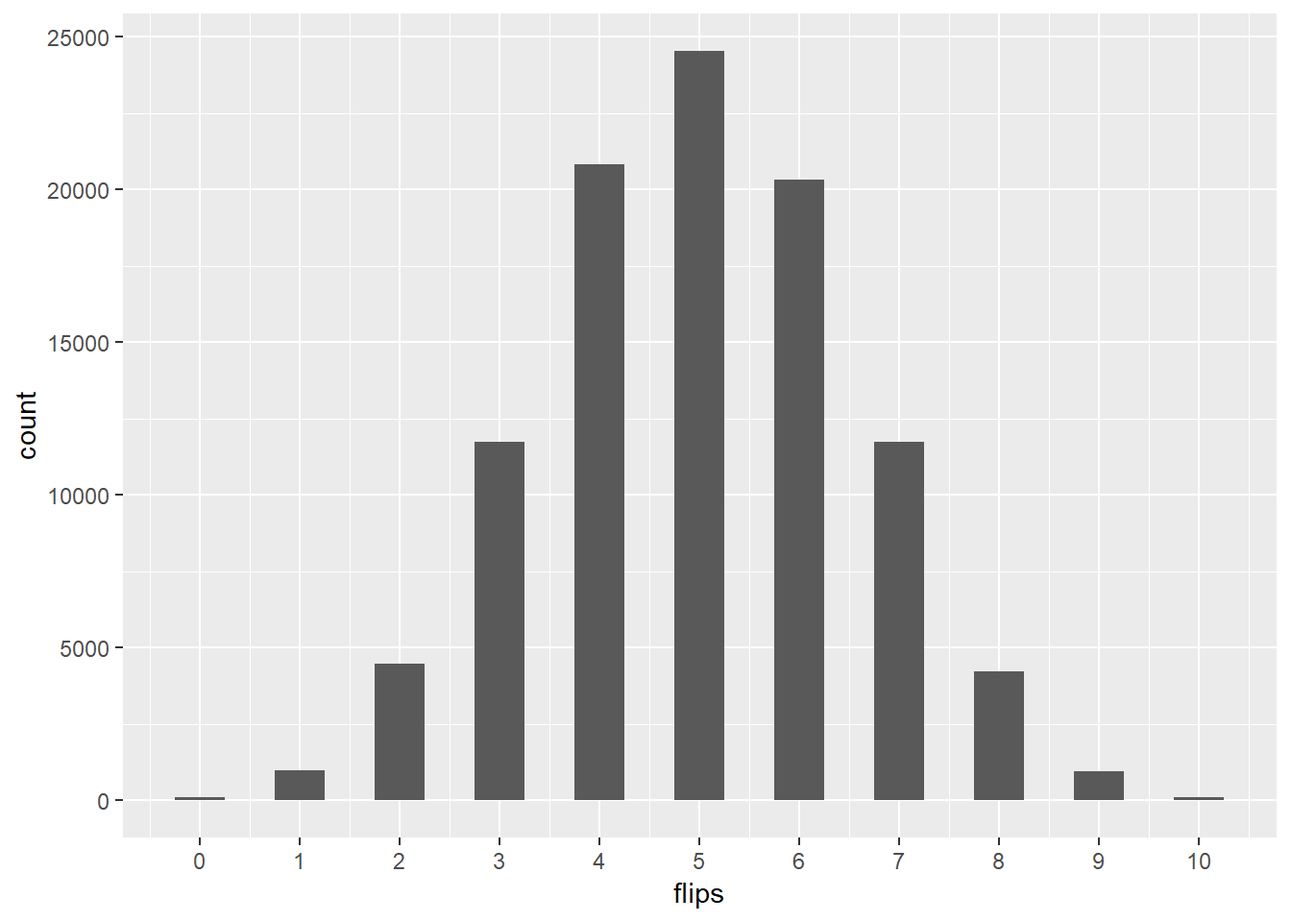
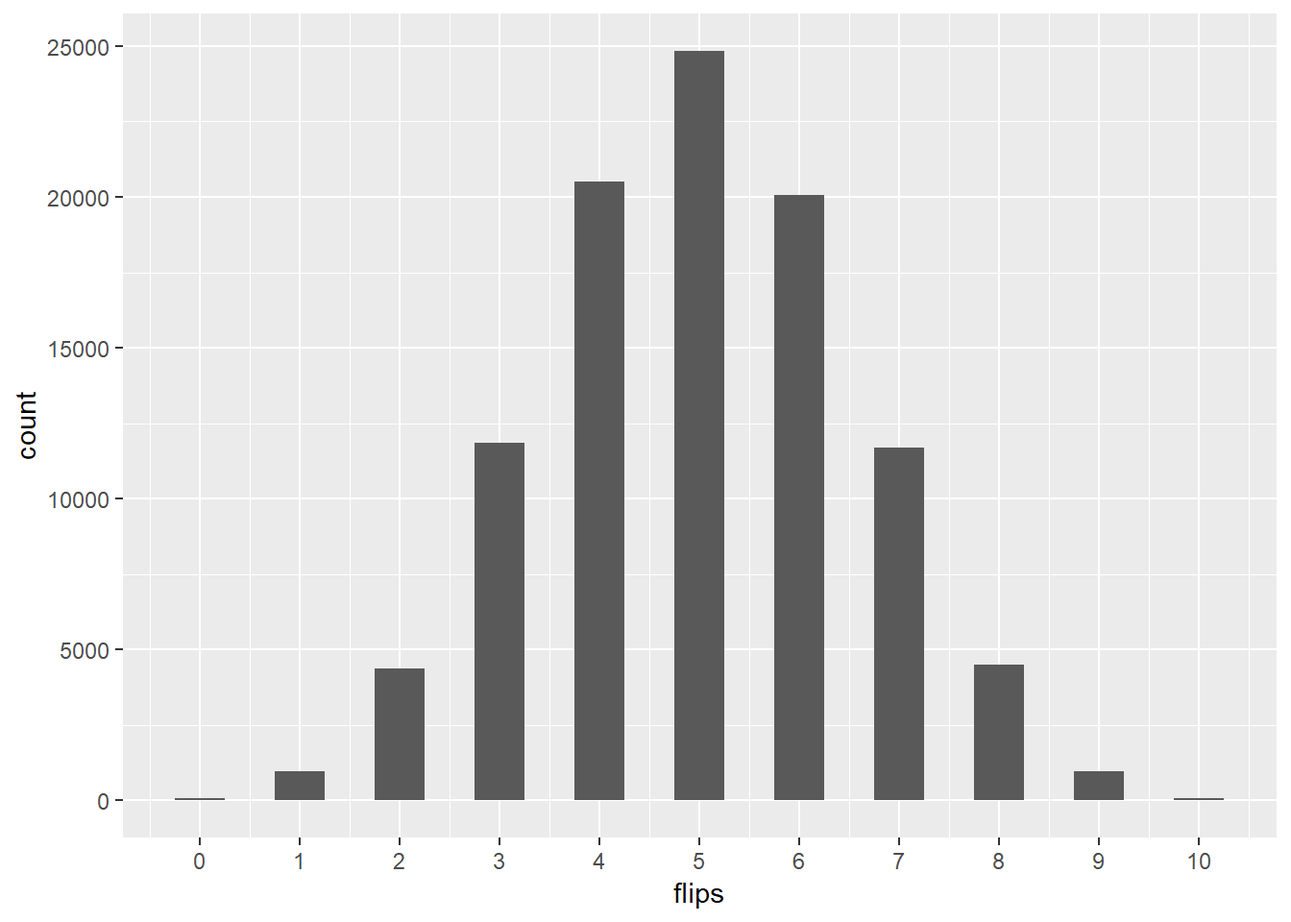
updated website day1

diff --git a/day1.html b/day1.html
@@ -667,15 +667,15 @@ $(document).ready(function() {
 <p><strong>Side note: assignment operator <code>&lt;-</code> vs. equals operator <code>=</code></strong></p>
 <p>In the last step above, we asked which elements of <code>numbers</code> are smaller than minus 1. The space here between <code>&lt; -1</code> is very important. If this is typed incorrectly (as in the last example above), you will get something you likely did not want. As you can imagine if this goes unnoticed during an analysis, it can lead to wrong conclusions at worst and if did notice an unexpected results, it may take some time to figure out where it went wrong. To avoid this you could use the equals operator <code>=</code> instead of the assignment operator <code>&lt;-</code> to assign a value to a variable name, however there are also potential issues with that. One of which is that the arguments in a function are set by the <code>=</code> operator, for example consider the function <code>rnorm()</code> which generates random numbers from the normal distribution with given mean and standard deviation. Let’s look at the documentation first <code>?rnorm</code>. There you see that you can specify arguments to the function using <code>=</code>. In this case you cannot use the <code>&lt;-</code> operator. Consider the following example:</p>
 <div class="sourceCode" id="cb15"><pre class="sourceCode r"><code class="sourceCode r"><a class="sourceLine" id="cb15-1" title="1"><span class="kw">rnorm</span>(<span class="dv">10</span>) <span class="co"># gives you 10 random sample from the normal distribution of mean = 0 and sd = 1</span></a>
-<a class="sourceLine" id="cb15-2" title="2"><span class="co">#&gt;  [1] -1.34236438  0.11903716  2.87663172  1.54814617  1.39848520</span></a>
-<a class="sourceLine" id="cb15-3" title="3"><span class="co">#&gt;  [6] -1.17472239  0.05552441  0.38936502  1.29443777  1.21553930</span></a>
+<a class="sourceLine" id="cb15-2" title="2"><span class="co">#&gt;  [1]  1.7424980  0.8201671  0.4942502 -0.1668366  0.1706409 -1.5857788</span></a>
+<a class="sourceLine" id="cb15-3" title="3"><span class="co">#&gt;  [7] -0.5849720  0.9995446  0.7539289  1.2774377</span></a>
 <a class="sourceLine" id="cb15-4" title="4"><span class="kw">rnorm</span>(<span class="dv">10</span>, <span class="dt">mean =</span> <span class="dv">10</span>, <span class="dt">sd =</span> <span class="dv">4</span>) <span class="co"># works as expected</span></a>
-<a class="sourceLine" id="cb15-5" title="5"><span class="co">#&gt;  [1]  8.428622  9.260937  6.316703  7.952408  9.274844  7.453932 14.146665</span></a>
-<a class="sourceLine" id="cb15-6" title="6"><span class="co">#&gt;  [8] 16.549669  4.513299  6.529671</span></a></code></pre></div>
+<a class="sourceLine" id="cb15-5" title="5"><span class="co">#&gt;  [1] 13.721318 10.583474 14.382817 12.039056  8.579592  5.089316 10.565822</span></a>
+<a class="sourceLine" id="cb15-6" title="6"><span class="co">#&gt;  [8] 12.594434  8.877935  9.416387</span></a></code></pre></div>
 <p>While in this case <code>mean</code> and <code>sd</code> are an arguments to the <code>rnorm</code> function, they are also functions of themselves outside of the <code>rnorm</code> function environment. Now if we were to use the assignment operator to set the value of an argument in a function, we can create problems that could take hours of trouble shooting if something doesn’t work as expected:</p>
 <div class="sourceCode" id="cb16"><pre class="sourceCode r"><code class="sourceCode r"><a class="sourceLine" id="cb16-1" title="1"><span class="kw">rnorm</span>(<span class="dv">10</span>, mean &lt;-<span class="st"> </span><span class="dv">10</span>, sd &lt;-<span class="st"> </span><span class="dv">4</span>) <span class="co"># seems to work but let&#39;s check what type `mean` is now</span></a>
-<a class="sourceLine" id="cb16-2" title="2"><span class="co">#&gt;  [1]  2.485514 17.092090  7.859276  4.260005  9.378517 10.844895 10.553243</span></a>
-<a class="sourceLine" id="cb16-3" title="3"><span class="co">#&gt;  [8] 15.916758 14.284296  4.101260</span></a>
+<a class="sourceLine" id="cb16-2" title="2"><span class="co">#&gt;  [1]  6.599181  6.706385 10.761127 13.949565  4.825798 14.713139 12.195730</span></a>
+<a class="sourceLine" id="cb16-3" title="3"><span class="co">#&gt;  [8]  9.302259  7.361492  8.816279</span></a>
 <a class="sourceLine" id="cb16-4" title="4"><span class="kw">typeof</span>(mean); <span class="kw">typeof</span>(sd) <span class="co"># not good!</span></a>
 <a class="sourceLine" id="cb16-5" title="5"><span class="co">#&gt; [1] &quot;double&quot;</span></a>
 <a class="sourceLine" id="cb16-6" title="6"><span class="co">#&gt; [1] &quot;double&quot;</span></a>
@@ -685,36 +685,17 @@ $(document).ready(function() {
 <a class="sourceLine" id="cb16-10" title="10"><span class="co">#&gt; [1] 1.290994</span></a></code></pre></div>
 <p>As you can see there are differences between those operators and you need to be aware of them. I personally would suggest using <code>&lt;-</code> to assign values to variable names and not <code>=</code>. Now let’s check what objects we have in our workspace and remove <code>mean</code> and <code>sd</code> from it using the <code>rm()</code> function (see <code>?rm</code>):</p>
 <div class="sourceCode" id="cb17"><pre class="sourceCode r"><code class="sourceCode r"><a class="sourceLine" id="cb17-1" title="1"><span class="kw">ls</span>() <span class="co"># show what&#39;s in the workspace</span></a>
-<a class="sourceLine" id="cb17-2" title="2"><span class="co">#&gt;  [1] &quot;characters&quot;    &quot;dates&quot;         &quot;deviation&quot;     &quot;deviation_sq&quot; </span></a>
-<a class="sourceLine" id="cb17-3" title="3"><span class="co">#&gt;  [5] &quot;df&quot;            &quot;df_ht&quot;         &quot;df_ht_m&quot;       &quot;df_inc&quot;       </span></a>
-<a class="sourceLine" id="cb17-4" title="4"><span class="co">#&gt;  [9] &quot;error&quot;         &quot;flips&quot;         &quot;flips_5&quot;       &quot;flips_df&quot;     </span></a>
-<a class="sourceLine" id="cb17-5" title="5"><span class="co">#&gt; [13] &quot;fruits1&quot;       &quot;fruits2&quot;       &quot;heights&quot;       &quot;income&quot;       </span></a>
-<a class="sourceLine" id="cb17-6" title="6"><span class="co">#&gt; [17] &quot;integers&quot;      &quot;k&quot;             &quot;logical_a&quot;     &quot;logical_b&quot;    </span></a>
-<a class="sourceLine" id="cb17-7" title="7"><span class="co">#&gt; [21] &quot;logicals&quot;      &quot;logicals_int&quot;  &quot;logicals_mean&quot; &quot;logicals_num&quot; </span></a>
-<a class="sourceLine" id="cb17-8" title="8"><span class="co">#&gt; [25] &quot;logicals_sum&quot;  &quot;mat_1&quot;         &quot;mat_2&quot;         &quot;mat_bind&quot;     </span></a>
-<a class="sourceLine" id="cb17-9" title="9"><span class="co">#&gt; [29] &quot;mean&quot;          &quot;mix1&quot;          &quot;mix2&quot;          &quot;mix3&quot;         </span></a>
-<a class="sourceLine" id="cb17-10" title="10"><span class="co">#&gt; [33] &quot;more_integers&quot; &quot;my_list&quot;       &quot;my_sequence&quot;   &quot;n&quot;            </span></a>
-<a class="sourceLine" id="cb17-11" title="11"><span class="co">#&gt; [37] &quot;new_list&quot;      &quot;numbers&quot;       &quot;p&quot;             &quot;plot.mean&quot;    </span></a>
-<a class="sourceLine" id="cb17-12" title="12"><span class="co">#&gt; [41] &quot;plot.median&quot;   &quot;sd&quot;            &quot;system_time&quot;   &quot;treat&quot;        </span></a>
-<a class="sourceLine" id="cb17-13" title="13"><span class="co">#&gt; [45] &quot;treat_f&quot;       &quot;x&quot;             &quot;x1&quot;            &quot;x2&quot;           </span></a>
-<a class="sourceLine" id="cb17-14" title="14"><span class="co">#&gt; [49] &quot;x3&quot;            &quot;y&quot;</span></a>
-<a class="sourceLine" id="cb17-15" title="15"><span class="kw">rm</span>(mean, sd) <span class="co"># remove `mean` and `sd` from the workspace</span></a>
-<a class="sourceLine" id="cb17-16" title="16"><span class="kw">ls</span>() </a>
-<a class="sourceLine" id="cb17-17" title="17"><span class="co">#&gt;  [1] &quot;characters&quot;    &quot;dates&quot;         &quot;deviation&quot;     &quot;deviation_sq&quot; </span></a>
-<a class="sourceLine" id="cb17-18" title="18"><span class="co">#&gt;  [5] &quot;df&quot;            &quot;df_ht&quot;         &quot;df_ht_m&quot;       &quot;df_inc&quot;       </span></a>
-<a class="sourceLine" id="cb17-19" title="19"><span class="co">#&gt;  [9] &quot;error&quot;         &quot;flips&quot;         &quot;flips_5&quot;       &quot;flips_df&quot;     </span></a>
-<a class="sourceLine" id="cb17-20" title="20"><span class="co">#&gt; [13] &quot;fruits1&quot;       &quot;fruits2&quot;       &quot;heights&quot;       &quot;income&quot;       </span></a>
-<a class="sourceLine" id="cb17-21" title="21"><span class="co">#&gt; [17] &quot;integers&quot;      &quot;k&quot;             &quot;logical_a&quot;     &quot;logical_b&quot;    </span></a>
-<a class="sourceLine" id="cb17-22" title="22"><span class="co">#&gt; [21] &quot;logicals&quot;      &quot;logicals_int&quot;  &quot;logicals_mean&quot; &quot;logicals_num&quot; </span></a>
-<a class="sourceLine" id="cb17-23" title="23"><span class="co">#&gt; [25] &quot;logicals_sum&quot;  &quot;mat_1&quot;         &quot;mat_2&quot;         &quot;mat_bind&quot;     </span></a>
-<a class="sourceLine" id="cb17-24" title="24"><span class="co">#&gt; [29] &quot;mix1&quot;          &quot;mix2&quot;          &quot;mix3&quot;          &quot;more_integers&quot;</span></a>
-<a class="sourceLine" id="cb17-25" title="25"><span class="co">#&gt; [33] &quot;my_list&quot;       &quot;my_sequence&quot;   &quot;n&quot;             &quot;new_list&quot;     </span></a>
-<a class="sourceLine" id="cb17-26" title="26"><span class="co">#&gt; [37] &quot;numbers&quot;       &quot;p&quot;             &quot;plot.mean&quot;     &quot;plot.median&quot;  </span></a>
-<a class="sourceLine" id="cb17-27" title="27"><span class="co">#&gt; [41] &quot;system_time&quot;   &quot;treat&quot;         &quot;treat_f&quot;       &quot;x&quot;            </span></a>
-<a class="sourceLine" id="cb17-28" title="28"><span class="co">#&gt; [45] &quot;x1&quot;            &quot;x2&quot;            &quot;x3&quot;            &quot;y&quot;</span></a>
-<a class="sourceLine" id="cb17-29" title="29"><span class="kw">typeof</span>(mean); <span class="kw">typeof</span>(sd) <span class="co"># all good again</span></a>
-<a class="sourceLine" id="cb17-30" title="30"><span class="co">#&gt; [1] &quot;closure&quot;</span></a>
-<a class="sourceLine" id="cb17-31" title="31"><span class="co">#&gt; [1] &quot;closure&quot;</span></a></code></pre></div>
+<a class="sourceLine" id="cb17-2" title="2"><span class="co">#&gt;  [1] &quot;error&quot;        &quot;fruits1&quot;      &quot;fruits2&quot;      &quot;integers&quot;    </span></a>
+<a class="sourceLine" id="cb17-3" title="3"><span class="co">#&gt;  [5] &quot;logicals_int&quot; &quot;logicals_num&quot; &quot;mean&quot;         &quot;my_sequence&quot; </span></a>
+<a class="sourceLine" id="cb17-4" title="4"><span class="co">#&gt;  [9] &quot;numbers&quot;      &quot;sd&quot;           &quot;x&quot;            &quot;y&quot;</span></a>
+<a class="sourceLine" id="cb17-5" title="5"><span class="kw">rm</span>(mean, sd) <span class="co"># remove `mean` and `sd` from the workspace</span></a>
+<a class="sourceLine" id="cb17-6" title="6"><span class="kw">ls</span>() </a>
+<a class="sourceLine" id="cb17-7" title="7"><span class="co">#&gt;  [1] &quot;error&quot;        &quot;fruits1&quot;      &quot;fruits2&quot;      &quot;integers&quot;    </span></a>
+<a class="sourceLine" id="cb17-8" title="8"><span class="co">#&gt;  [5] &quot;logicals_int&quot; &quot;logicals_num&quot; &quot;my_sequence&quot;  &quot;numbers&quot;     </span></a>
+<a class="sourceLine" id="cb17-9" title="9"><span class="co">#&gt;  [9] &quot;x&quot;            &quot;y&quot;</span></a>
+<a class="sourceLine" id="cb17-10" title="10"><span class="kw">typeof</span>(mean); <span class="kw">typeof</span>(sd) <span class="co"># all good again</span></a>
+<a class="sourceLine" id="cb17-11" title="11"><span class="co">#&gt; [1] &quot;closure&quot;</span></a>
+<a class="sourceLine" id="cb17-12" title="12"><span class="co">#&gt; [1] &quot;closure&quot;</span></a></code></pre></div>
 <p>This also means that if you assign values to objects, make sure you pick a name that is not a function or object already. You can try this for example by typing <code>?your_object_name</code> and see if R has a help file for it and then also check your workspace (<code>ls()</code>) if you have already created this name earlier in your R session.</p>
 <p>OK, after this little detour let’s get back to the basic data types in R. So far we looked at doubles, integers, and logicals but there is one more we need to look at.</p>
 </div>
@@ -798,7 +779,7 @@ $(document).ready(function() {
 <a class="sourceLine" id="cb25-6" title="6"><span class="co"># Get a more complicated date object: the system time of your computer</span></a>
 <a class="sourceLine" id="cb25-7" title="7">system_time &lt;-<span class="st"> </span><span class="kw">Sys.time</span>()</a>
 <a class="sourceLine" id="cb25-8" title="8">system_time</a>
-<a class="sourceLine" id="cb25-9" title="9"><span class="co">#&gt; [1] &quot;2019-03-14 22:45:08 MDT&quot;</span></a>
+<a class="sourceLine" id="cb25-9" title="9"><span class="co">#&gt; [1] &quot;2019-03-15 07:49:15 MDT&quot;</span></a>
 <a class="sourceLine" id="cb25-10" title="10"><span class="kw">attributes</span>(system_time)</a>
 <a class="sourceLine" id="cb25-11" title="11"><span class="co">#&gt; $class</span></a>
 <a class="sourceLine" id="cb25-12" title="12"><span class="co">#&gt; [1] &quot;POSIXct&quot; &quot;POSIXt&quot;</span></a>
@@ -997,17 +978,24 @@ $(document).ready(function() {
 <a class="sourceLine" id="cb43-8" title="8"><span class="co">#&gt; [1] 1 4 8</span></a>
 <a class="sourceLine" id="cb43-9" title="9">integers[<span class="op">-</span><span class="dv">3</span><span class="op">:-</span><span class="dv">5</span>] <span class="co"># everything except position 3, 4, 5</span></a>
 <a class="sourceLine" id="cb43-10" title="10"><span class="co">#&gt; [1] 1 4</span></a></code></pre></div>
-<p>Not too difficult, is it? Now let’s do something that you will likely encounter more frequently, i.e. subsetting based on a value, or range of values with help of relational operators:</p>
+<p>Not too difficult, is it? Now let’s do something that you will likely encounter more frequently, i.e. subsetting based on a value, or range of values with help of relational (<code>?"&lt;"</code>) and logical (<code>?"&amp;"</code>) operators:</p>
 <div class="sourceCode" id="cb44"><pre class="sourceCode r"><code class="sourceCode r"><a class="sourceLine" id="cb44-1" title="1">integers</a>
 <a class="sourceLine" id="cb44-2" title="2"><span class="co">#&gt; [1]   1   4   8  -1 -14</span></a>
-<a class="sourceLine" id="cb44-3" title="3">integers[integers <span class="op">&lt;</span><span class="st"> </span><span class="dv">0</span>]</a>
-<a class="sourceLine" id="cb44-4" title="4"><span class="co">#&gt; [1]  -1 -14</span></a>
-<a class="sourceLine" id="cb44-5" title="5">integers[integers <span class="op">&lt;=</span><span class="st"> </span><span class="dv">4</span>]</a>
-<a class="sourceLine" id="cb44-6" title="6"><span class="co">#&gt; [1]   1   4  -1 -14</span></a>
-<a class="sourceLine" id="cb44-7" title="7">integers[integers <span class="op">==</span><span class="st"> </span><span class="dv">-14</span>]</a>
-<a class="sourceLine" id="cb44-8" title="8"><span class="co">#&gt; [1] -14</span></a>
-<a class="sourceLine" id="cb44-9" title="9">integers[integers <span class="op">!=</span><span class="st"> </span><span class="dv">-14</span>]</a>
-<a class="sourceLine" id="cb44-10" title="10"><span class="co">#&gt; [1]  1  4  8 -1</span></a></code></pre></div>
+<a class="sourceLine" id="cb44-3" title="3"><span class="co"># relational operators</span></a>
+<a class="sourceLine" id="cb44-4" title="4">integers[integers <span class="op">&lt;</span><span class="st"> </span><span class="dv">0</span>]</a>
+<a class="sourceLine" id="cb44-5" title="5"><span class="co">#&gt; [1]  -1 -14</span></a>
+<a class="sourceLine" id="cb44-6" title="6">integers[integers <span class="op">&lt;=</span><span class="st"> </span><span class="dv">4</span>]</a>
+<a class="sourceLine" id="cb44-7" title="7"><span class="co">#&gt; [1]   1   4  -1 -14</span></a>
+<a class="sourceLine" id="cb44-8" title="8">integers[integers <span class="op">==</span><span class="st"> </span><span class="dv">-14</span>]</a>
+<a class="sourceLine" id="cb44-9" title="9"><span class="co">#&gt; [1] -14</span></a>
+<a class="sourceLine" id="cb44-10" title="10">integers[integers <span class="op">!=</span><span class="st"> </span><span class="dv">-14</span>]</a>
+<a class="sourceLine" id="cb44-11" title="11"><span class="co">#&gt; [1]  1  4  8 -1</span></a>
+<a class="sourceLine" id="cb44-12" title="12"></a>
+<a class="sourceLine" id="cb44-13" title="13"><span class="co"># relational and logical operators</span></a>
+<a class="sourceLine" id="cb44-14" title="14">integers[integers <span class="op">&lt;</span><span class="st"> </span><span class="dv">8</span> <span class="op">&amp;</span><span class="st"> </span>integers <span class="op">&lt;</span><span class="st"> </span><span class="dv">-1</span>]</a>
+<a class="sourceLine" id="cb44-15" title="15"><span class="co">#&gt; [1] -14</span></a>
+<a class="sourceLine" id="cb44-16" title="16">integers[integers <span class="op">&gt;=</span><span class="st"> </span><span class="dv">4</span> <span class="op">|</span><span class="st"> </span>integers <span class="op">&lt;=</span><span class="st"> </span><span class="dv">-1</span>]</a>
+<a class="sourceLine" id="cb44-17" title="17"><span class="co">#&gt; [1]   4   8  -1 -14</span></a></code></pre></div>
 <p>Matrices are subsetted in a similar fashion but we now have two dimensions, that is, rows and columns. Using the square brackets approach we now select element as <code>[row_position, column_position]</code>.</p>
 <div class="sourceCode" id="cb45"><pre class="sourceCode r"><code class="sourceCode r"><a class="sourceLine" id="cb45-1" title="1">mat_bind</a>
 <a class="sourceLine" id="cb45-2" title="2"><span class="co">#&gt;   A   B                    C       D     E      </span></a>
@@ -1056,8 +1044,8 @@ $(document).ready(function() {
 <a class="sourceLine" id="cb46-8" title="8"><span class="co">#&gt;  [1]  1  2  3  4  5  6  7  8  9 10</span></a>
 <a class="sourceLine" id="cb46-9" title="9"><span class="co">#&gt; </span></a>
 <a class="sourceLine" id="cb46-10" title="10"><span class="co">#&gt; $C</span></a>
-<a class="sourceLine" id="cb46-11" title="11"><span class="co">#&gt;  [1] 0.5608638 0.1757023 0.9992012 0.8748302 0.5743460 0.4915198 0.6953671</span></a>
-<a class="sourceLine" id="cb46-12" title="12"><span class="co">#&gt;  [8] 0.5385963 0.8798304 0.5888204</span></a>
+<a class="sourceLine" id="cb46-11" title="11"><span class="co">#&gt;  [1] 0.819062348 0.757737700 0.460076923 0.798066377 0.068379085</span></a>
+<a class="sourceLine" id="cb46-12" title="12"><span class="co">#&gt;  [6] 0.102099861 0.009850186 0.833954330 0.160210822 0.411078101</span></a>
 <a class="sourceLine" id="cb46-13" title="13"><span class="co">#&gt; </span></a>
 <a class="sourceLine" id="cb46-14" title="14"><span class="co">#&gt; $D</span></a>
 <a class="sourceLine" id="cb46-15" title="15"><span class="co">#&gt; [1] &quot;I can pack any item I want in a list&quot;</span></a>
@@ -1085,7 +1073,7 @@ Structure of lists (from: <a href="https://r4ds.had.co.nz/vectors.html#lists">R 
 <a class="sourceLine" id="cb48-3" title="3"><span class="co">#&gt; List of 4</span></a>
 <a class="sourceLine" id="cb48-4" title="4"><span class="co">#&gt;  $ a: chr [1:2] &quot;alpha&quot; &quot;beta&quot;</span></a>
 <a class="sourceLine" id="cb48-5" title="5"><span class="co">#&gt;  $ b: int [1:5] 1 2 3 4 5</span></a>
-<a class="sourceLine" id="cb48-6" title="6"><span class="co">#&gt;  $ c: num [1:4] 0.542 2.241 0.228 -1.054</span></a>
+<a class="sourceLine" id="cb48-6" title="6"><span class="co">#&gt;  $ c: num [1:4] -0.643 -0.557 0.542 -0.285</span></a>
 <a class="sourceLine" id="cb48-7" title="7"><span class="co">#&gt;  $ d:List of 2</span></a>
 <a class="sourceLine" id="cb48-8" title="8"><span class="co">#&gt;   ..$ x: num 1</span></a>
 <a class="sourceLine" id="cb48-9" title="9"><span class="co">#&gt;   ..$ y:List of 2</span></a>
@@ -1137,12 +1125,12 @@ Structure of lists (from: <a href="https://r4ds.had.co.nz/vectors.html#lists">R 
 <div class="sourceCode" id="cb51"><pre class="sourceCode r"><code class="sourceCode r"><a class="sourceLine" id="cb51-1" title="1">df &lt;-<span class="st"> </span><span class="kw">data.frame</span>(<span class="dt">A =</span> LETTERS[<span class="dv">1</span><span class="op">:</span><span class="dv">6</span>], <span class="dt">B =</span> <span class="kw">rnorm</span>(<span class="dv">6</span>), <span class="dt">C =</span> <span class="kw">as.logical</span>(<span class="kw">sample</span>(<span class="kw">c</span>(<span class="dv">0</span>, <span class="dv">1</span>), <span class="dv">6</span>, <span class="dt">replace =</span> <span class="ot">TRUE</span>)))</a>
 <a class="sourceLine" id="cb51-2" title="2">df</a>
 <a class="sourceLine" id="cb51-3" title="3"><span class="co">#&gt;   A          B     C</span></a>
-<a class="sourceLine" id="cb51-4" title="4"><span class="co">#&gt; 1 A -0.4597107 FALSE</span></a>
-<a class="sourceLine" id="cb51-5" title="5"><span class="co">#&gt; 2 B -2.1542375  TRUE</span></a>
-<a class="sourceLine" id="cb51-6" title="6"><span class="co">#&gt; 3 C -0.4453760  TRUE</span></a>
-<a class="sourceLine" id="cb51-7" title="7"><span class="co">#&gt; 4 D  1.0141269 FALSE</span></a>
-<a class="sourceLine" id="cb51-8" title="8"><span class="co">#&gt; 5 E  1.1417528  TRUE</span></a>
-<a class="sourceLine" id="cb51-9" title="9"><span class="co">#&gt; 6 F -0.7870963  TRUE</span></a>
+<a class="sourceLine" id="cb51-4" title="4"><span class="co">#&gt; 1 A -1.0229424  TRUE</span></a>
+<a class="sourceLine" id="cb51-5" title="5"><span class="co">#&gt; 2 B  1.6617892 FALSE</span></a>
+<a class="sourceLine" id="cb51-6" title="6"><span class="co">#&gt; 3 C -0.2029711 FALSE</span></a>
+<a class="sourceLine" id="cb51-7" title="7"><span class="co">#&gt; 4 D -2.2177306  TRUE</span></a>
+<a class="sourceLine" id="cb51-8" title="8"><span class="co">#&gt; 5 E  0.9174521  TRUE</span></a>
+<a class="sourceLine" id="cb51-9" title="9"><span class="co">#&gt; 6 F  0.5760049  TRUE</span></a>
 <a class="sourceLine" id="cb51-10" title="10"><span class="kw">length</span>(df) <span class="co"># note: length in a data frame represents the number of columns</span></a>
 <a class="sourceLine" id="cb51-11" title="11"><span class="co">#&gt; [1] 3</span></a>
 <a class="sourceLine" id="cb51-12" title="12"><span class="kw">nrow</span>(df) <span class="co"># note: to get the column length of a data frame use `nrow()`</span></a>
@@ -1156,8 +1144,8 @@ Structure of lists (from: <a href="https://r4ds.had.co.nz/vectors.html#lists">R 
 <a class="sourceLine" id="cb51-20" title="20"><span class="kw">str</span>(df)</a>
 <a class="sourceLine" id="cb51-21" title="21"><span class="co">#&gt; &#39;data.frame&#39;:    6 obs. of  3 variables:</span></a>
 <a class="sourceLine" id="cb51-22" title="22"><span class="co">#&gt;  $ A: Factor w/ 6 levels &quot;A&quot;,&quot;B&quot;,&quot;C&quot;,&quot;D&quot;,..: 1 2 3 4 5 6</span></a>
-<a class="sourceLine" id="cb51-23" title="23"><span class="co">#&gt;  $ B: num  -0.46 -2.154 -0.445 1.014 1.142 ...</span></a>
-<a class="sourceLine" id="cb51-24" title="24"><span class="co">#&gt;  $ C: logi  FALSE TRUE TRUE FALSE TRUE TRUE</span></a></code></pre></div>
+<a class="sourceLine" id="cb51-23" title="23"><span class="co">#&gt;  $ B: num  -1.023 1.662 -0.203 -2.218 0.917 ...</span></a>
+<a class="sourceLine" id="cb51-24" title="24"><span class="co">#&gt;  $ C: logi  TRUE FALSE FALSE TRUE TRUE TRUE</span></a></code></pre></div>
 <p>Let’s open up Excel and create a toy data set. Make sure you include some missing values (empty cells) as well as some numeric and character values. Now save the file as <code>.csv</code> (comma separated value) in the working directory and read it into R using <code>read.csv</code> and inspect it.</p>
 <div class="sourceCode" id="cb52"><pre class="sourceCode r"><code class="sourceCode r"><a class="sourceLine" id="cb52-1" title="1">my_df &lt;-<span class="st"> </span><span class="kw">read.csv</span>(<span class="st">&quot;my_toy_dataset.csv&quot;</span>)</a>
 <a class="sourceLine" id="cb52-2" title="2"><span class="kw">typeof</span>(my_df)</a>
@@ -1172,32 +1160,34 @@ Structure of lists (from: <a href="https://r4ds.had.co.nz/vectors.html#lists">R 
 <a class="sourceLine" id="cb53-3" title="3"><span class="kw">typeof</span>(df[<span class="dv">1</span><span class="op">:</span><span class="dv">4</span>, <span class="dv">3</span>])</a>
 <a class="sourceLine" id="cb53-4" title="4"><span class="co">#&gt; [1] &quot;logical&quot;</span></a>
 <a class="sourceLine" id="cb53-5" title="5">df[df<span class="op">$</span>A <span class="op">==</span><span class="st"> &quot;D&quot;</span>, ]</a>
-<a class="sourceLine" id="cb53-6" title="6"><span class="co">#&gt;   A        B     C</span></a>
-<a class="sourceLine" id="cb53-7" title="7"><span class="co">#&gt; 4 D 1.014127 FALSE</span></a>
+<a class="sourceLine" id="cb53-6" title="6"><span class="co">#&gt;   A         B    C</span></a>
+<a class="sourceLine" id="cb53-7" title="7"><span class="co">#&gt; 4 D -2.217731 TRUE</span></a>
 <a class="sourceLine" id="cb53-8" title="8">df[df<span class="op">$</span>C <span class="op">!=</span><span class="st"> </span><span class="dv">0</span>, ]</a>
 <a class="sourceLine" id="cb53-9" title="9"><span class="co">#&gt;   A          B    C</span></a>
-<a class="sourceLine" id="cb53-10" title="10"><span class="co">#&gt; 2 B -2.1542375 TRUE</span></a>
-<a class="sourceLine" id="cb53-11" title="11"><span class="co">#&gt; 3 C -0.4453760 TRUE</span></a>
-<a class="sourceLine" id="cb53-12" title="12"><span class="co">#&gt; 5 E  1.1417528 TRUE</span></a>
-<a class="sourceLine" id="cb53-13" title="13"><span class="co">#&gt; 6 F -0.7870963 TRUE</span></a>
+<a class="sourceLine" id="cb53-10" title="10"><span class="co">#&gt; 1 A -1.0229424 TRUE</span></a>
+<a class="sourceLine" id="cb53-11" title="11"><span class="co">#&gt; 4 D -2.2177306 TRUE</span></a>
+<a class="sourceLine" id="cb53-12" title="12"><span class="co">#&gt; 5 E  0.9174521 TRUE</span></a>
+<a class="sourceLine" id="cb53-13" title="13"><span class="co">#&gt; 6 F  0.5760049 TRUE</span></a>
 <a class="sourceLine" id="cb53-14" title="14">df[df<span class="op">$</span>B <span class="op">&gt;</span><span class="st"> </span><span class="fl">0.5</span>, ]</a>
-<a class="sourceLine" id="cb53-15" title="15"><span class="co">#&gt;   A        B     C</span></a>
-<a class="sourceLine" id="cb53-16" title="16"><span class="co">#&gt; 4 D 1.014127 FALSE</span></a>
-<a class="sourceLine" id="cb53-17" title="17"><span class="co">#&gt; 5 E 1.141753  TRUE</span></a>
-<a class="sourceLine" id="cb53-18" title="18">df[df<span class="op">$</span>A <span class="op">%in%</span><span class="st"> </span><span class="kw">c</span>(<span class="st">&quot;A&quot;</span>, <span class="st">&quot;C&quot;</span>),] <span class="co"># %in% is used when you want to select/match elements based on an vector of elements see: ?&#39;%in%</span></a>
-<a class="sourceLine" id="cb53-19" title="19"><span class="co">#&gt;   A          B     C</span></a>
-<a class="sourceLine" id="cb53-20" title="20"><span class="co">#&gt; 1 A -0.4597107 FALSE</span></a>
-<a class="sourceLine" id="cb53-21" title="21"><span class="co">#&gt; 3 C -0.4453760  TRUE</span></a>
-<a class="sourceLine" id="cb53-22" title="22">df[df<span class="op">$</span>A <span class="op">==</span><span class="st"> </span><span class="kw">c</span>(<span class="st">&quot;A&quot;</span>, <span class="st">&quot;AC&quot;</span>),] <span class="co"># same result </span></a>
-<a class="sourceLine" id="cb53-23" title="23"><span class="co">#&gt;   A          B     C</span></a>
-<a class="sourceLine" id="cb53-24" title="24"><span class="co">#&gt; 1 A -0.4597107 FALSE</span></a>
-<a class="sourceLine" id="cb53-25" title="25">df[df<span class="op">$</span>A <span class="op">%in%</span><span class="st"> </span><span class="kw">c</span>(<span class="st">&quot;C&quot;</span>, <span class="st">&quot;A&quot;</span>),] <span class="co"># same result</span></a>
-<a class="sourceLine" id="cb53-26" title="26"><span class="co">#&gt;   A          B     C</span></a>
-<a class="sourceLine" id="cb53-27" title="27"><span class="co">#&gt; 1 A -0.4597107 FALSE</span></a>
-<a class="sourceLine" id="cb53-28" title="28"><span class="co">#&gt; 3 C -0.4453760  TRUE</span></a>
-<a class="sourceLine" id="cb53-29" title="29">df[df<span class="op">$</span>A <span class="op">==</span><span class="st"> </span><span class="kw">c</span>(<span class="st">&quot;C&quot;</span>, <span class="st">&quot;A&quot;</span>),] <span class="co"># not the same result why?</span></a>
-<a class="sourceLine" id="cb53-30" title="30"><span class="co">#&gt;   A         B    C</span></a>
-<a class="sourceLine" id="cb53-31" title="31"><span class="co">#&gt; 3 C -0.445376 TRUE</span></a></code></pre></div>
+<a class="sourceLine" id="cb53-15" title="15"><span class="co">#&gt;   A         B     C</span></a>
+<a class="sourceLine" id="cb53-16" title="16"><span class="co">#&gt; 2 B 1.6617892 FALSE</span></a>
+<a class="sourceLine" id="cb53-17" title="17"><span class="co">#&gt; 5 E 0.9174521  TRUE</span></a>
+<a class="sourceLine" id="cb53-18" title="18"><span class="co">#&gt; 6 F 0.5760049  TRUE</span></a>
+<a class="sourceLine" id="cb53-19" title="19">df[df<span class="op">$</span>A <span class="op">%in%</span><span class="st"> </span><span class="kw">c</span>(<span class="st">&quot;A&quot;</span>, <span class="st">&quot;C&quot;</span>),] <span class="co"># %in% is used when you want to select/match elements based on an vector of elements see: ?&#39;%in%</span></a>
+<a class="sourceLine" id="cb53-20" title="20"><span class="co">#&gt;   A          B     C</span></a>
+<a class="sourceLine" id="cb53-21" title="21"><span class="co">#&gt; 1 A -1.0229424  TRUE</span></a>
+<a class="sourceLine" id="cb53-22" title="22"><span class="co">#&gt; 3 C -0.2029711 FALSE</span></a>
+<a class="sourceLine" id="cb53-23" title="23">df[df<span class="op">$</span>A <span class="op">==</span><span class="st"> </span><span class="kw">c</span>(<span class="st">&quot;A&quot;</span>, <span class="st">&quot;AC&quot;</span>),] <span class="co"># same result </span></a>
+<a class="sourceLine" id="cb53-24" title="24"><span class="co">#&gt;   A         B    C</span></a>
+<a class="sourceLine" id="cb53-25" title="25"><span class="co">#&gt; 1 A -1.022942 TRUE</span></a>
+<a class="sourceLine" id="cb53-26" title="26">df[df<span class="op">$</span>A <span class="op">%in%</span><span class="st"> </span><span class="kw">c</span>(<span class="st">&quot;C&quot;</span>, <span class="st">&quot;A&quot;</span>),] <span class="co"># same result</span></a>
+<a class="sourceLine" id="cb53-27" title="27"><span class="co">#&gt;   A          B     C</span></a>
+<a class="sourceLine" id="cb53-28" title="28"><span class="co">#&gt; 1 A -1.0229424  TRUE</span></a>
+<a class="sourceLine" id="cb53-29" title="29"><span class="co">#&gt; 3 C -0.2029711 FALSE</span></a>
+<a class="sourceLine" id="cb53-30" title="30">df[df<span class="op">$</span>A <span class="op">==</span><span class="st"> </span><span class="kw">c</span>(<span class="st">&quot;C&quot;</span>, <span class="st">&quot;A&quot;</span>),] <span class="co"># not the same result why?</span></a>
+<a class="sourceLine" id="cb53-31" title="31"><span class="co">#&gt;   A          B     C</span></a>
+<a class="sourceLine" id="cb53-32" title="32"><span class="co">#&gt; 3 C -0.2029711 FALSE</span></a></code></pre></div>
+<p>Also try subsetting <code>df</code> using the logical OR (<code>|</code>) and logical AND (<code>&amp;</code>) as we did above for 1-dimensional atomic vectors.</p>
 <p>At this point remember how subsetting works, it is important to understand this. First we define a condition for which we get a logical vector. Then we feed this into the square brackets to select those items for which the condition was <code>TRUE</code>. Also remember R’s behavior of vector recycling, meaning that it will execute a given operation by position:</p>
 <div class="sourceCode" id="cb54"><pre class="sourceCode r"><code class="sourceCode r"><a class="sourceLine" id="cb54-1" title="1">df<span class="op">$</span>A <span class="co"># the column we want to select from</span></a>
 <a class="sourceLine" id="cb54-2" title="2"><span class="co">#&gt; [1] A B C D E F</span></a>
@@ -1210,11 +1200,11 @@ Structure of lists (from: <a href="https://r4ds.had.co.nz/vectors.html#lists">R 
 <a class="sourceLine" id="cb54-9" title="9"><span class="co">#&gt; [1] FALSE FALSE  TRUE FALSE FALSE FALSE</span></a>
 <a class="sourceLine" id="cb54-10" title="10">df[logical_a, ]</a>
 <a class="sourceLine" id="cb54-11" title="11"><span class="co">#&gt;   A          B     C</span></a>
-<a class="sourceLine" id="cb54-12" title="12"><span class="co">#&gt; 1 A -0.4597107 FALSE</span></a>
-<a class="sourceLine" id="cb54-13" title="13"><span class="co">#&gt; 3 C -0.4453760  TRUE</span></a>
+<a class="sourceLine" id="cb54-12" title="12"><span class="co">#&gt; 1 A -1.0229424  TRUE</span></a>
+<a class="sourceLine" id="cb54-13" title="13"><span class="co">#&gt; 3 C -0.2029711 FALSE</span></a>
 <a class="sourceLine" id="cb54-14" title="14">df[logical_b, ]</a>
-<a class="sourceLine" id="cb54-15" title="15"><span class="co">#&gt;   A         B    C</span></a>
-<a class="sourceLine" id="cb54-16" title="16"><span class="co">#&gt; 3 C -0.445376 TRUE</span></a></code></pre></div>
+<a class="sourceLine" id="cb54-15" title="15"><span class="co">#&gt;   A          B     C</span></a>
+<a class="sourceLine" id="cb54-16" title="16"><span class="co">#&gt; 3 C -0.2029711 FALSE</span></a></code></pre></div>
 <p>So whenever you want to match a set of items within a vector use the <code>%in%</code> operator and not <code>==</code>! Otherwise you will very likely introduce errors without knowing!</p>
 </div>
 </div>
@@ -1224,16 +1214,20 @@ Structure of lists (from: <a href="https://r4ds.had.co.nz/vectors.html#lists">R 
 <p>Installing packages is also something you will come across very often. However, this is a pretty simple task and can get accomplished easily. Why don’t we install the R fortunes package so that you can get yourself a <code>fortune()</code> :D</p>
 <div class="sourceCode" id="cb55"><pre class="sourceCode r"><code class="sourceCode r"><a class="sourceLine" id="cb55-1" title="1"><span class="kw">install.packages</span>(<span class="st">&quot;fortunes&quot;</span>)</a></code></pre></div>
 <div class="sourceCode" id="cb56"><pre class="sourceCode r"><code class="sourceCode r"><a class="sourceLine" id="cb56-1" title="1"><span class="kw">require</span>(fortunes)</a>
-<a class="sourceLine" id="cb56-2" title="2"><span class="kw">fortune</span>()</a>
-<a class="sourceLine" id="cb56-3" title="3"><span class="co">#&gt; </span></a>
-<a class="sourceLine" id="cb56-4" title="4"><span class="co">#&gt; Barry Rowlingson: Your grid above has 8*6 = 42 points.</span></a>
-<a class="sourceLine" id="cb56-5" title="5"><span class="co">#&gt; (That was a subtle Hitchhikers Guide To The Galaxy reference there,</span></a>
-<a class="sourceLine" id="cb56-6" title="6"><span class="co">#&gt; honest, and not a stupid dumb multiplication mistake on my part after</span></a>
-<a class="sourceLine" id="cb56-7" title="7"><span class="co">#&gt; working four 18-hour days on the trot...)</span></a>
-<a class="sourceLine" id="cb56-8" title="8"><span class="co">#&gt; Peter Dalgaard: [...] Don&#39;t panic, just throw yourself at the ground and</span></a>
-<a class="sourceLine" id="cb56-9" title="9"><span class="co">#&gt; miss.</span></a>
-<a class="sourceLine" id="cb56-10" title="10"><span class="co">#&gt;    -- Barry Rowlingson and Peter Dalgaard</span></a>
-<a class="sourceLine" id="cb56-11" title="11"><span class="co">#&gt;       R-help (March 2004)</span></a></code></pre></div>
+<a class="sourceLine" id="cb56-2" title="2"><span class="co">#&gt; Loading required package: fortunes</span></a>
+<a class="sourceLine" id="cb56-3" title="3"><span class="kw">fortune</span>()</a>
+<a class="sourceLine" id="cb56-4" title="4"><span class="co">#&gt; </span></a>
+<a class="sourceLine" id="cb56-5" title="5"><span class="co">#&gt; Trevor Hastie: It would be great to have a &#39;clickable&#39; digest, where the</span></a>
+<a class="sourceLine" id="cb56-6" title="6"><span class="co">#&gt; topics list is a set of pointers, and clicking on a topic takes you to</span></a>
+<a class="sourceLine" id="cb56-7" title="7"><span class="co">#&gt; that entry.</span></a>
+<a class="sourceLine" id="cb56-8" title="8"><span class="co">#&gt; Jeff Gentry: I sincerely hope you don&#39;t mean that you wish HTML enabled</span></a>
+<a class="sourceLine" id="cb56-9" title="9"><span class="co">#&gt; content in the actual emails coming through the mailing list. People who</span></a>
+<a class="sourceLine" id="cb56-10" title="10"><span class="co">#&gt; send HTML in email text should be taken out back and shot :)</span></a>
+<a class="sourceLine" id="cb56-11" title="11"><span class="co">#&gt; Peter Dalgaard: Pretty much what my spam filter does... Well, it kills the</span></a>
+<a class="sourceLine" id="cb56-12" title="12"><span class="co">#&gt; message, not the sender, although the latter would be a more permanent</span></a>
+<a class="sourceLine" id="cb56-13" title="13"><span class="co">#&gt; solution.</span></a>
+<a class="sourceLine" id="cb56-14" title="14"><span class="co">#&gt;    -- Trevor Hastie, Jeff Gentry, and Peter Dalgaard</span></a>
+<a class="sourceLine" id="cb56-15" title="15"><span class="co">#&gt;       R-help (August 2005)</span></a></code></pre></div>
 </div>
 <div id="installing-r-studio" class="section level1">
 <h1><span class="header-section-number">8</span> Installing R Studio</h1>
@@ -1342,11 +1336,11 @@ Structure of lists (from: <a href="https://r4ds.had.co.nz/vectors.html#lists">R 
 <p>Suppose you are flipping a fair coin. What is the probability of the coin coming up heads? Such an experiment with a binary outcome is called a <a href="https://en.wikipedia.org/wiki/Bernoulli_trial">Bernoulli trial</a>. The outcomes of multiple independent Bernoulli trials can be calculated using the <a href="https://en.wikipedia.org/wiki/Binomial_distribution">Binomial distribution</a> with parameters <span class="math inline">\(B(n,p)\)</span>, where <span class="math inline">\(n\)</span> is the number of independent Bernoulli trials and <span class="math inline">\(p\)</span> the probability of success, which in our coin example is heads with a probability of 0.5. To calculate the number of successes <span class="math inline">\(k\)</span> over <span class="math inline">\(n\)</span> trials we use the binomial probability mass function. <span class="math display">\[{n \choose k}p^k(1-p)^{(n-k)}\]</span> But before we do that let us first use R to generate some random binomial-distributed numbers using the <code>rbinom()</code> function (see <code>?rbinom</code>):</p>
 <div class="sourceCode" id="cb66"><pre class="sourceCode r"><code class="sourceCode r"><a class="sourceLine" id="cb66-1" title="1"><span class="co"># a single fair coin toss, i.e, one Bernoulli trial</span></a>
 <a class="sourceLine" id="cb66-2" title="2"><span class="kw">rbinom</span>(<span class="dv">1</span>, <span class="dv">1</span>, <span class="fl">0.5</span>) <span class="co"># keep repeating this step and observe</span></a>
-<a class="sourceLine" id="cb66-3" title="3"><span class="co">#&gt; [1] 0</span></a>
+<a class="sourceLine" id="cb66-3" title="3"><span class="co">#&gt; [1] 1</span></a>
 <a class="sourceLine" id="cb66-4" title="4"></a>
 <a class="sourceLine" id="cb66-5" title="5"><span class="co"># instead if flipping one coin we can also flip many coins simulatnously </span></a>
 <a class="sourceLine" id="cb66-6" title="6"><span class="kw">rbinom</span>(<span class="dv">10</span>, <span class="dv">1</span>, <span class="fl">0.5</span>) <span class="co"># keep repeating this step and observe</span></a>
-<a class="sourceLine" id="cb66-7" title="7"><span class="co">#&gt;  [1] 0 1 1 1 0 0 0 0 1 0</span></a>
+<a class="sourceLine" id="cb66-7" title="7"><span class="co">#&gt;  [1] 0 1 0 1 1 0 1 1 1 0</span></a>
 <a class="sourceLine" id="cb66-8" title="8"></a>
 <a class="sourceLine" id="cb66-9" title="9"><span class="co"># now let&#39;s try one coin tossed repeatedly 10 times</span></a>
 <a class="sourceLine" id="cb66-10" title="10"><span class="kw">rbinom</span>(<span class="dv">1</span>, <span class="dv">10</span>, <span class="fl">0.5</span>) <span class="co"># keep repeating this step and observe</span></a>
@@ -1355,17 +1349,17 @@ Structure of lists (from: <a href="https://r4ds.had.co.nz/vectors.html#lists">R 
 <div class="sourceCode" id="cb67"><pre class="sourceCode r"><code class="sourceCode r"><a class="sourceLine" id="cb67-1" title="1">flips &lt;-<span class="st"> </span><span class="kw">rbinom</span>(<span class="dv">100000</span>, <span class="dv">10</span>, <span class="fl">0.5</span>)</a>
 <a class="sourceLine" id="cb67-2" title="2"><span class="co"># number of heads over 10 trials for first 20 of the 100,000 coins</span></a>
 <a class="sourceLine" id="cb67-3" title="3">flips[<span class="dv">1</span><span class="op">:</span><span class="dv">20</span>]</a>
-<a class="sourceLine" id="cb67-4" title="4"><span class="co">#&gt;  [1] 2 5 8 6 5 8 6 6 4 7 4 7 3 4 3 4 4 5 1 6</span></a>
+<a class="sourceLine" id="cb67-4" title="4"><span class="co">#&gt;  [1] 6 4 7 4 5 2 5 7 5 6 4 4 5 7 8 6 5 1 3 4</span></a>
 <a class="sourceLine" id="cb67-5" title="5"><span class="kw">length</span>(flips)</a>
 <a class="sourceLine" id="cb67-6" title="6"><span class="co">#&gt; [1] 100000</span></a></code></pre></div>
 <p>Remember the relational operators <code>==</code>, <code>&lt;</code>, <code>&gt;</code>, etc. from above? Now we could ask R which of the 100,000 coin flips resulted in 5 heads:</p>
 <div class="sourceCode" id="cb68"><pre class="sourceCode r"><code class="sourceCode r"><a class="sourceLine" id="cb68-1" title="1">flips_<span class="dv">5</span> &lt;-<span class="st"> </span>flips <span class="op">==</span><span class="st"> </span><span class="dv">5</span></a>
 <a class="sourceLine" id="cb68-2" title="2">flips_<span class="dv">5</span>[<span class="dv">1</span><span class="op">:</span><span class="dv">20</span>]</a>
-<a class="sourceLine" id="cb68-3" title="3"><span class="co">#&gt;  [1] FALSE  TRUE FALSE FALSE  TRUE FALSE FALSE FALSE FALSE FALSE FALSE</span></a>
-<a class="sourceLine" id="cb68-4" title="4"><span class="co">#&gt; [12] FALSE FALSE FALSE FALSE FALSE FALSE  TRUE FALSE FALSE</span></a></code></pre></div>
+<a class="sourceLine" id="cb68-3" title="3"><span class="co">#&gt;  [1] FALSE FALSE FALSE FALSE  TRUE FALSE  TRUE FALSE  TRUE FALSE FALSE</span></a>
+<a class="sourceLine" id="cb68-4" title="4"><span class="co">#&gt; [12] FALSE  TRUE FALSE FALSE FALSE  TRUE FALSE FALSE FALSE</span></a></code></pre></div>
 <p>Now also remember from above that R treats <code>TRUE</code> as 1 and <code>FALSE</code> as 0. So would should be able to take the mean of <code>flips_5</code> to get the fraction of TRUEs (or 1s) over the total length of 100,000:</p>
 <div class="sourceCode" id="cb69"><pre class="sourceCode r"><code class="sourceCode r"><a class="sourceLine" id="cb69-1" title="1"><span class="kw">mean</span>(flips_<span class="dv">5</span>)</a>
-<a class="sourceLine" id="cb69-2" title="2"><span class="co">#&gt; [1] 0.24531</span></a></code></pre></div>
+<a class="sourceLine" id="cb69-2" title="2"><span class="co">#&gt; [1] 0.24832</span></a></code></pre></div>
 <p>In a histogram our simulation (<code>flips</code>) would look like this:</p>
 <div class="sourceCode" id="cb70"><pre class="sourceCode r"><code class="sourceCode r"><a class="sourceLine" id="cb70-1" title="1">flips_df &lt;-<span class="st"> </span><span class="kw">as.data.frame</span>(flips)</a>
 <a class="sourceLine" id="cb70-2" title="2"><span class="kw">ggplot</span>(flips_df, <span class="kw">aes</span>(flips)) <span class="op">+</span><span class="st"> </span><span class="kw">geom_histogram</span>(<span class="dt">bins =</span> <span class="dv">11</span>, <span class="dt">binwidth =</span> <span class="fl">.5</span>) <span class="op">+</span><span class="st"> </span><span class="kw">scale_x_continuous</span>(<span class="dt">breaks =</span> <span class="dv">0</span><span class="op">:</span><span class="dv">10</span>)</a></code></pre></div>
@@ -1378,7 +1372,7 @@ Structure of lists (from: <a href="https://r4ds.had.co.nz/vectors.html#lists">R 
 <a class="sourceLine" id="cb71-5" title="5"><span class="kw">choose</span>(n, k) <span class="op">*</span><span class="st"> </span>p<span class="op">^</span>k <span class="op">*</span><span class="st"> </span>(<span class="dv">1</span> <span class="op">-</span><span class="st"> </span>p)<span class="op">^</span>(n <span class="op">-</span><span class="st"> </span>k)</a>
 <a class="sourceLine" id="cb71-6" title="6"><span class="co">#&gt; [1] 0.2460938</span></a>
 <a class="sourceLine" id="cb71-7" title="7"><span class="kw">mean</span>(flips_<span class="dv">5</span>)</a>
-<a class="sourceLine" id="cb71-8" title="8"><span class="co">#&gt; [1] 0.24531</span></a></code></pre></div>
+<a class="sourceLine" id="cb71-8" title="8"><span class="co">#&gt; [1] 0.24832</span></a></code></pre></div>
 <p>In R we can also use the <code>dbinom()</code> function (see: ?<code>dbinom</code>) to calculate the exact probability of success for a given number of trials:</p>
 <div class="sourceCode" id="cb72"><pre class="sourceCode r"><code class="sourceCode r"><a class="sourceLine" id="cb72-1" title="1"><span class="kw">dbinom</span>(<span class="dv">5</span>, <span class="dv">10</span>, <span class="fl">0.5</span>)</a>
 <a class="sourceLine" id="cb72-2" title="2"><span class="co">#&gt; [1] 0.2460938</span></a></code></pre></div>
@@ -1387,7 +1381,7 @@ Structure of lists (from: <a href="https://r4ds.had.co.nz/vectors.html#lists">R 
 <a class="sourceLine" id="cb73-2" title="2"><span class="co">#&gt; [1] 0.6230469</span></a>
 <a class="sourceLine" id="cb73-3" title="3"></a>
 <a class="sourceLine" id="cb73-4" title="4"><span class="kw">mean</span>(flips <span class="op">&lt;=</span><span class="st"> </span><span class="dv">5</span>)</a>
-<a class="sourceLine" id="cb73-5" title="5"><span class="co">#&gt; [1] 0.6265</span></a></code></pre></div>
+<a class="sourceLine" id="cb73-5" title="5"><span class="co">#&gt; [1] 0.62657</span></a></code></pre></div>
 </div>
 <div id="gaussian" class="section level2">
 <h2><span class="header-section-number">11.2</span> Gaussian</h2>
